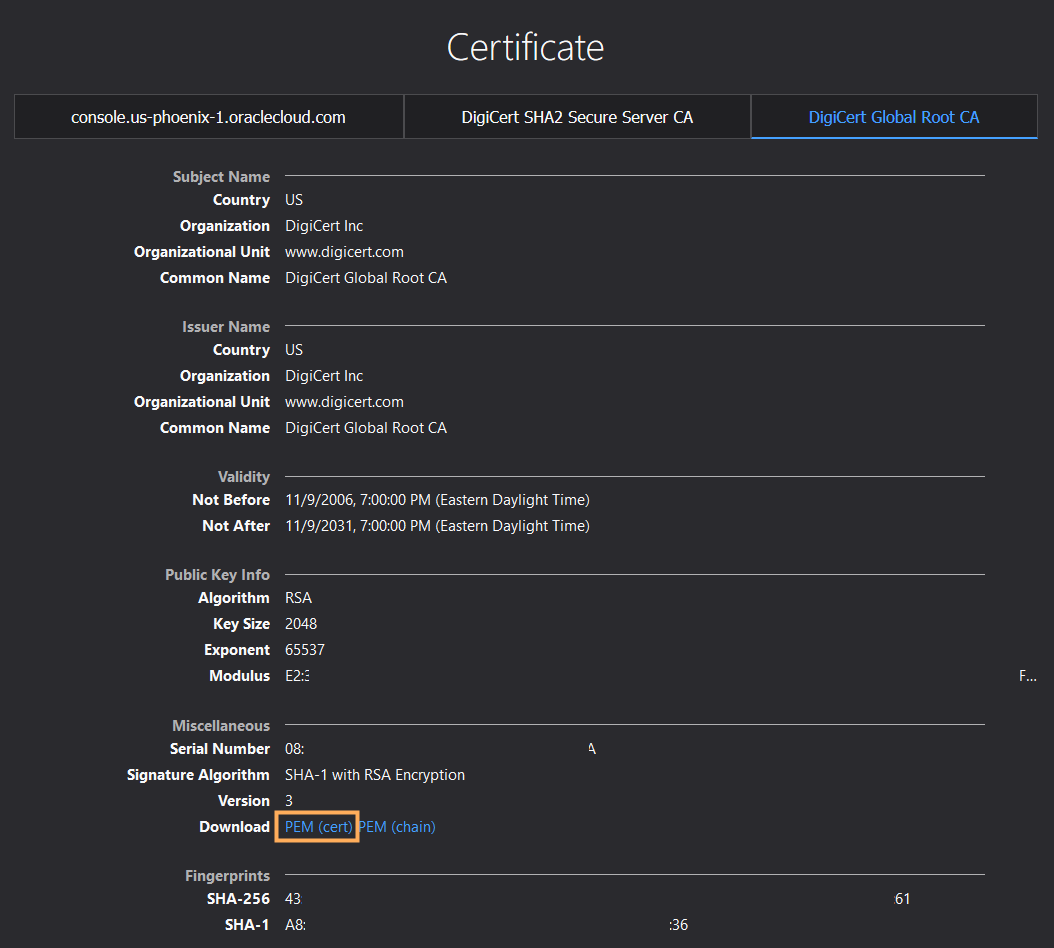
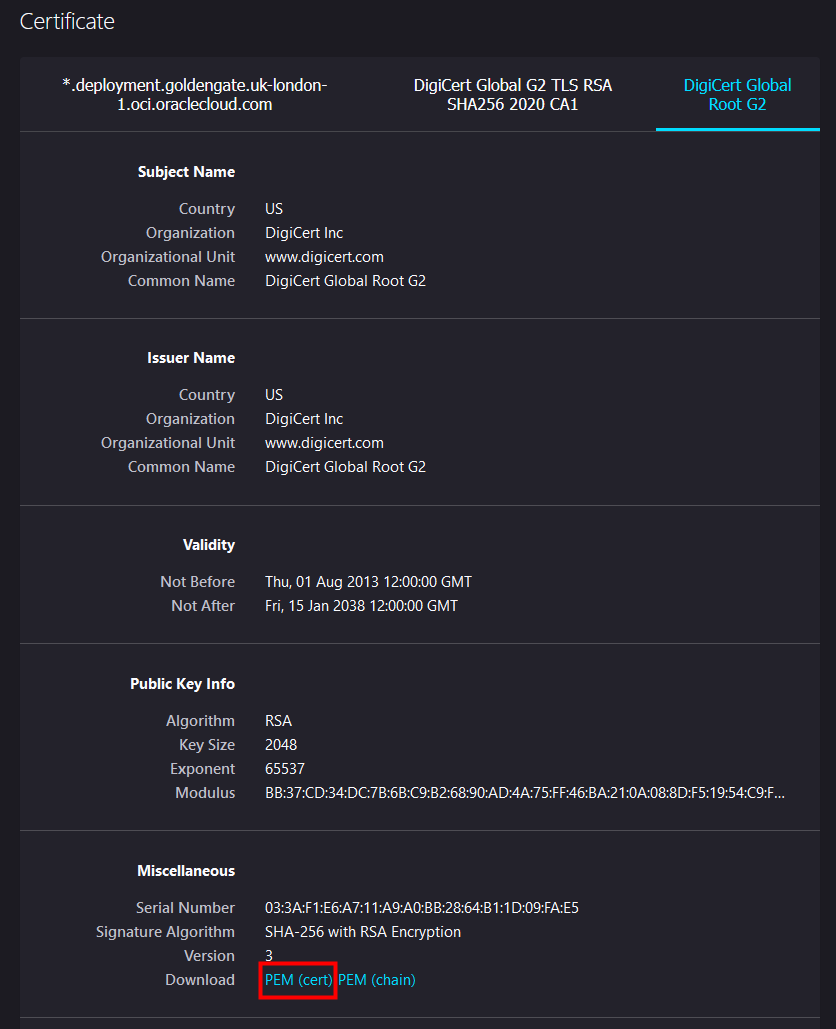
Updated screenshots

diff --git a/ggs-to-ogg/connection/connection-gb.md b/ggs-to-ogg/connection/connection-gb.md
@@ -78,7 +78,7 @@ The following instructions show you how to download the Root Certificate using a
 
     ![Click View Certificate in Page Info dialog window](./images/01b-04-security-certificate.png " ")
 
-5.  On the **Certificate** page, click **DigiCert Global Root G2**.
+5.  On the **Certificate** page, click **DigiCert Global Root CA**.
 
     ![Click DigiCert Global Root G2](./images/01b-05-certificate.png " ")
 
